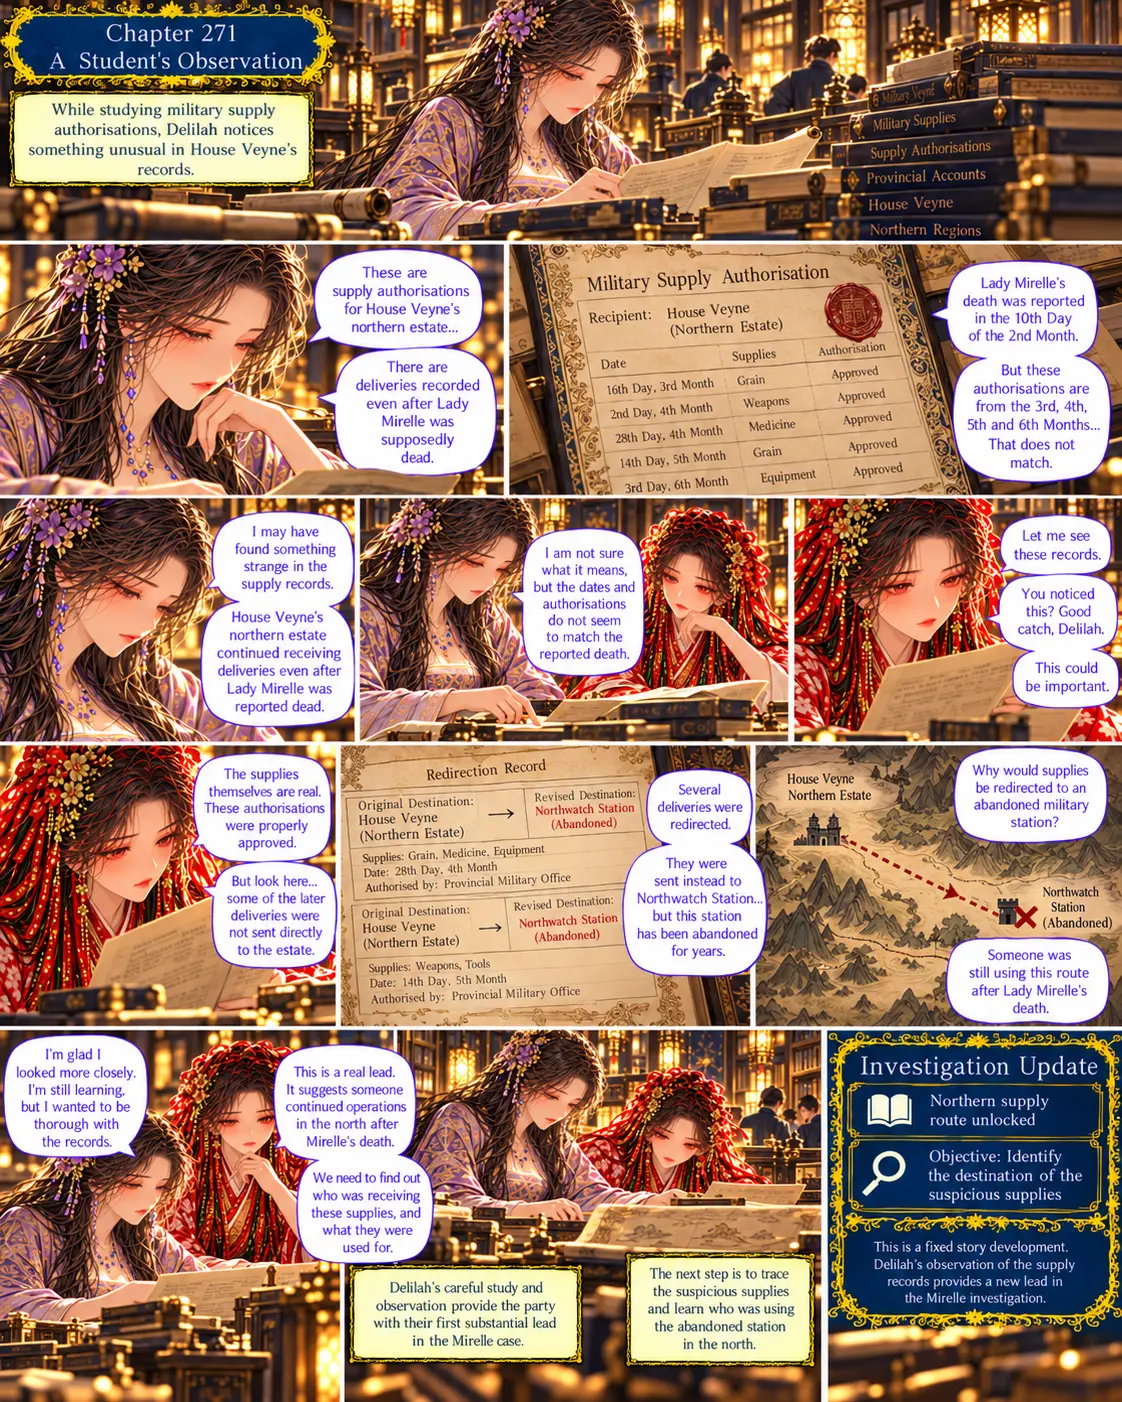
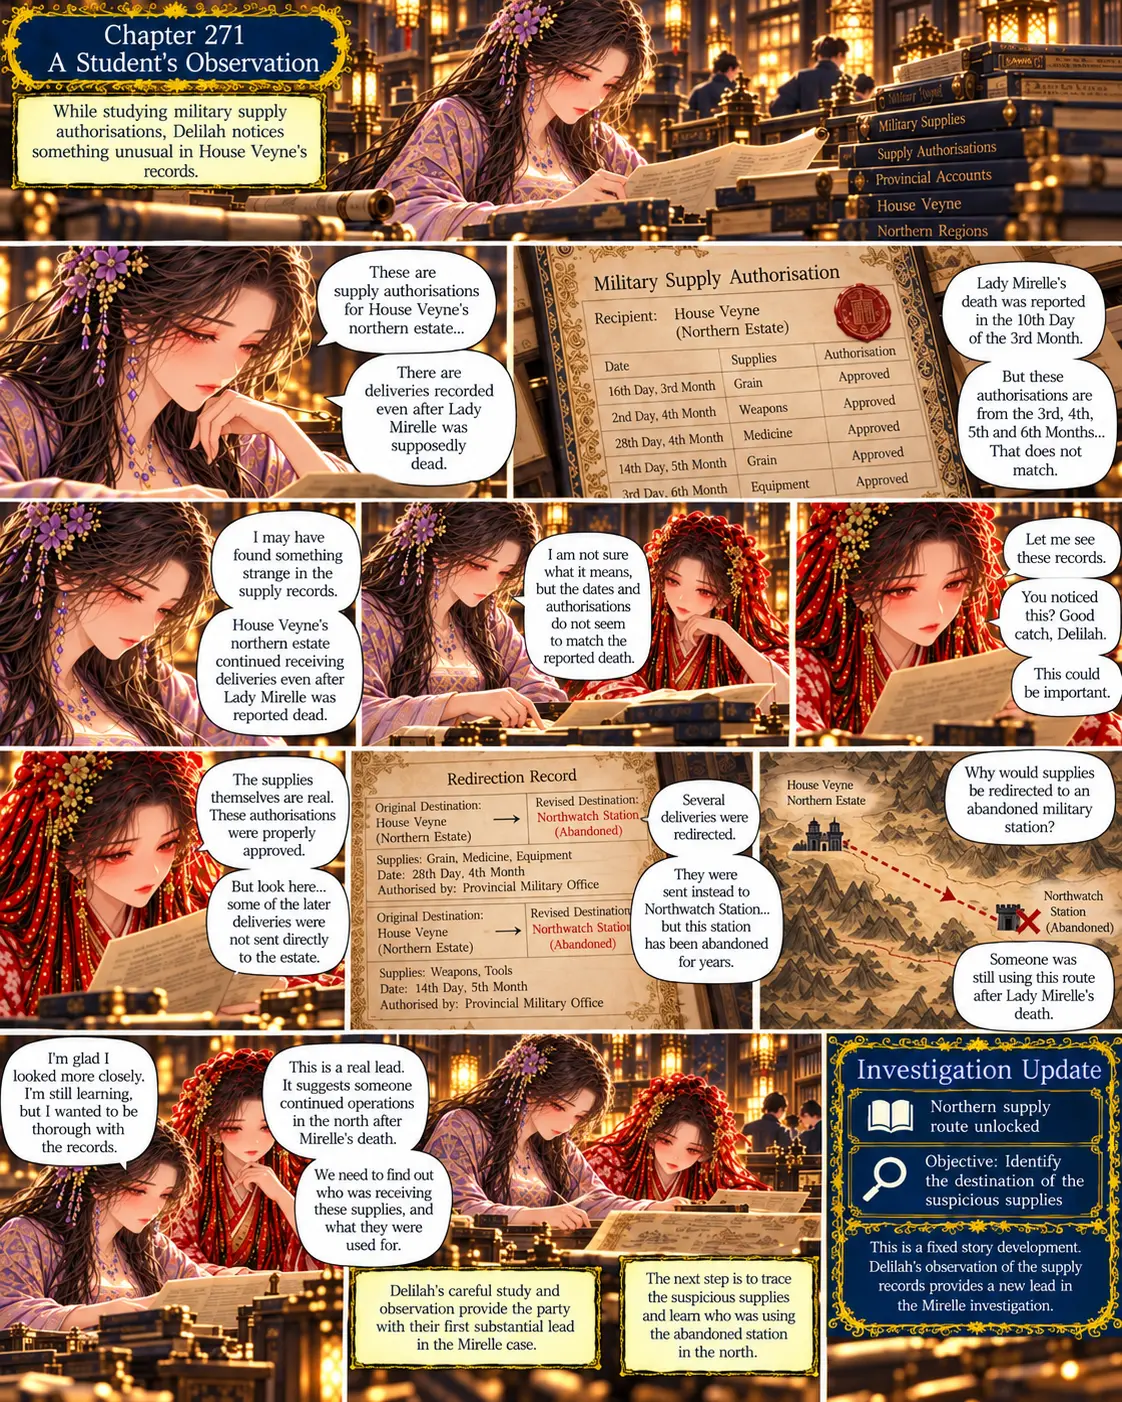
Ch271 regenerated: the death date now matches ch270
Claude-Session: https://claude.ai/code/session_01JgCx3Matg4MVjEr67ncDB4

diff --git a/scripts/chapters.js b/scripts/chapters.js
@@ -2720,10 +2720,10 @@ const CHAPTER_DESIGN = {
  271:{ title:'A Student\'s Observation', type:'Story Chapter — Delilah\'s lead in the supply records', loc:'🐉 Dragonvale: the Academy archives',
   chars:['jade', 'devon', 'sky', 'levi', 'rheon'], charsNote:'Jade, Delilah and the party',
   introduced:[],
-  sum:'While studying military supply authorisations, Delilah notices something unusual in House Veyne\'s records. Delilah: "These are supply authorisations for House Veyne\'s northern estate... There are deliveries recorded even after Lady Mirelle was supposedly dead." The Military Supply Authorisation (Recipient: House Veyne, Northern Estate) lists: 16th Day, 3rd Month: Grain, Approved. 2nd Day, 4th Month: Weapons, Approved. 28th Day, 4th Month: Medicine, Approved. 14th Day, 5th Month: Grain, Approved. 3rd Day, 6th Month: Equipment, Approved. Delilah: "Lady Mirelle\'s death was reported in the 10th Day of the 2nd Month. But these authorisations are from the 3rd, 4th, 5th and 6th Months... That does not match." Delilah to Jade: "I may have found something strange in the supply records. House Veyne\'s northern estate continued receiving deliveries even after Lady Mirelle was reported dead. I am not sure what it means, but the dates and authorisations do not seem to match the reported death." Jade: "Let me see these records. You noticed this? Good catch, Delilah. This could be important. The supplies themselves are real. These authorisations were properly approved. But look here... some of the later deliveries were not sent directly to the estate." The Redirection Record: Original Destination: House Veyne (Northern Estate) to Revised Destination: Northwatch Station (Abandoned). Supplies: Grain, Medicine, Equipment; Date: 28th Day, 4th Month; Authorised by: Provincial Military Office. Original Destination: House Veyne (Northern Estate) to Revised Destination: Northwatch Station (Abandoned). Supplies: Weapons, Tools; Date: 14th Day, 5th Month; Authorised by: Provincial Military Office. Jade: "Several deliveries were redirected. They were sent instead to Northwatch Station... but this station has been abandoned for years. Why would supplies be redirected to an abandoned military station? Someone was still using this route after Lady Mirelle\'s death." Delilah: "I\'m glad I looked more closely. I\'m still learning, but I wanted to be thorough with the records." Jade: "This is a real lead. It suggests someone continued operations in the north after Mirelle\'s death. We need to find out who was receiving these supplies, and what they were used for." Delilah\'s careful study and observation provide the party with their first substantial lead in the Mirelle case. The next step is to trace the suspicious supplies and learn who was using the abandoned station in the north. INVESTIGATION UPDATE: Northern supply route unlocked. Objective: Identify the destination of the suspicious supplies. This is a fixed story development.',
-  art:'Pages show: Delilah (purple robe) at a desk of ledgers in the academy archive (Military Supplies, Supply Authorisations, Provincial Accounts, House Veyne, Northern Regions); the \'Military Supply Authorisation\' table; Jade (red) and Delilah reading; the \'Redirection Record\' (two entries to Northwatch Station (Abandoned), authorised by the Provincial Military Office); a map from the House Veyne Northern Estate to Northwatch Station with a red X; the Investigation Update card. DATE MISMATCH: this page says Mirelle\'s death was reported on the 10th Day of the 2nd Month, while ch270\'s petition lists the incident on the 10th Day of the 3rd Month (filed the 16th Day of the 3rd Month); the first authorisation here is the 16th Day, 3rd Month. The game shows both as the pages do and flags it for the cleaning pass. Delilah is a student (the support bonus is small).',
+  sum:'While studying military supply authorisations, Delilah notices something unusual in House Veyne\'s records. Delilah: "These are supply authorisations for House Veyne\'s northern estate... There are deliveries recorded even after Lady Mirelle was supposedly dead." The Military Supply Authorisation (Recipient: House Veyne, Northern Estate) lists: 16th Day, 3rd Month: Grain, Approved. 2nd Day, 4th Month: Weapons, Approved. 28th Day, 4th Month: Medicine, Approved. 14th Day, 5th Month: Grain, Approved. 3rd Day, 6th Month: Equipment, Approved. Delilah: "Lady Mirelle\'s death was reported in the 10th Day of the 3rd Month. But these authorisations are from the 3rd, 4th, 5th and 6th Months... That does not match." Delilah to Jade: "I may have found something strange in the supply records. House Veyne\'s northern estate continued receiving deliveries even after Lady Mirelle was reported dead. I am not sure what it means, but the dates and authorisations do not seem to match the reported death." Jade: "Let me see these records. You noticed this? Good catch, Delilah. This could be important. The supplies themselves are real. These authorisations were properly approved. But look here... some of the later deliveries were not sent directly to the estate." The Redirection Record: Original Destination: House Veyne (Northern Estate) to Revised Destination: Northwatch Station (Abandoned). Supplies: Grain, Medicine, Equipment; Date: 28th Day, 4th Month; Authorised by: Provincial Military Office. Original Destination: House Veyne (Northern Estate) to Revised Destination: Northwatch Station (Abandoned). Supplies: Weapons, Tools; Date: 14th Day, 5th Month; Authorised by: Provincial Military Office. Jade: "Several deliveries were redirected. They were sent instead to Northwatch Station... but this station has been abandoned for years. Why would supplies be redirected to an abandoned military station? Someone was still using this route after Lady Mirelle\'s death." Delilah: "I\'m glad I looked more closely. I\'m still learning, but I wanted to be thorough with the records." Jade: "This is a real lead. It suggests someone continued operations in the north after Mirelle\'s death. We need to find out who was receiving these supplies, and what they were used for." Delilah\'s careful study and observation provide the party with their first substantial lead in the Mirelle case. The next step is to trace the suspicious supplies and learn who was using the abandoned station in the north. INVESTIGATION UPDATE: Northern supply route unlocked. Objective: Identify the destination of the suspicious supplies. This is a fixed story development.',
+  art:'Pages show: Delilah (purple robe) at a desk of ledgers in the academy archive (Military Supplies, Supply Authorisations, Provincial Accounts, House Veyne, Northern Regions); the \'Military Supply Authorisation\' table; Jade (red) and Delilah reading; the \'Redirection Record\' (two entries to Northwatch Station (Abandoned), authorised by the Provincial Military Office); a map from the House Veyne Northern Estate to Northwatch Station with a red X; the Investigation Update card. The date now matches ch270 (the incident on the 10th Day, 3rd Month); the first authorisation (16th Day, 3rd Month) falls six days after it. Delilah is a student (the support bonus is small).',
   quote:'"Someone was still using this route after Lady Mirelle\'s death." — Jade',
-  events:['Delilah finds House Veyne\'s northern estate kept receiving supplies after Mirelle\'s reported death', 'The authorisations run from the 3rd to the 6th Month; the death was reported in the 2nd Month (per this page)', 'The supplies are real and properly approved, but some were redirected away from the estate', 'Redirection records: grain, medicine, equipment (28th Day, 4th Month) and weapons, tools (14th Day, 5th Month) to Northwatch Station (Abandoned), authorised by the Provincial Military Office', 'Northwatch Station has been abandoned for years: someone is still using the route', 'Delilah\'s careful study gives the party its first substantial lead'],
+  events:['Delilah finds House Veyne\'s northern estate kept receiving supplies after Mirelle\'s reported death', 'The authorisations run from the 3rd to the 6th Month; the death was reported on the 10th Day of the 3rd Month', 'The supplies are real and properly approved, but some were redirected away from the estate', 'Redirection records: grain, medicine, equipment (28th Day, 4th Month) and weapons, tools (14th Day, 5th Month) to Northwatch Station (Abandoned), authorised by the Provincial Military Office', 'Northwatch Station has been abandoned for years: someone is still using the route', 'Delilah\'s careful study gives the party its first substantial lead'],
   purpose:['Give the party its first substantial lead', 'Show Delilah contributing through careful study'],
   unlocks:['Northern supply route', 'Delilah: support investigation bonus', 'Objective: identify the destination of the suspicious supplies'],
   reward:'The first substantial lead'},

diff --git a/scripts/veyne.js b/scripts/veyne.js
@@ -202,7 +202,7 @@ const CASE_ITEMS = [
   {cat:'Witnesses', n:'The frightened servants', t:'Some insist she died; others refuse to speak.', spot:'frightened_servants'},
   {cat:'Locations', n:'Northwatch Station (abandoned)', t:'Supplies were redirected here; abandoned for years.', spot:'northwatch_station'},
   {cat:'Locations', n:'The Veyne Estate', t:'Orderly outside, hollow within. Mirelle\'s private study.', spot:'private_study'},
-  {cat:'Contradictions', n:'Deliveries after the reported death', t:'Authorisations run from the 3rd to the 6th Month; the death was reported earlier (the dates on the pages differ: see notes).', spot:'supply_authorisations'},
+  {cat:'Contradictions', n:'Deliveries after the reported death', t:'Authorisations run from the 3rd to the 6th Month; the death was reported on the 10th Day of the 3rd Month, before the first delivery.', spot:'supply_authorisations'},
   {cat:'Contradictions', n:'Loyal staff dismissed within a month', t:'Steward, head of security, accountant and two senior servants, by order of the current household authority.', spot:'dismissed_officials'},
   {cat:'Documents', n:'Land grant letters', t:'Incomplete correspondence about northern military land grants; the final letter is missing.', spot:'land_grant_letters'},
   {cat:'Documents', n:'The torn ledger page', t:'A page removed from Mirelle\'s personal ledger, recently.', spot:'torn_ledger_page'},
@@ -268,7 +268,7 @@ ROUTES.push(
 LOCATIONS.dragon_academy.spots.push(
   {id:'supply_authorisations', kind:'investigate', n:'The Supply Authorisations', icon:'📑', ch:271, need:2, ambush:[], lo:82,
    desc:'Deliveries after her death.',
-   clues:['Delilah: "These are supply authorisations for House Veyne\'s northern estate... There are deliveries recorded even after Lady Mirelle was supposedly dead."', 'Delilah: "Lady Mirelle\'s death was reported in the 10th Day of the 2nd Month. But these authorisations are from the 3rd, 4th, 5th and 6th Months... That does not match."'], rw:{xp:173000, gold:36700}},
+   clues:['Delilah: "These are supply authorisations for House Veyne\'s northern estate... There are deliveries recorded even after Lady Mirelle was supposedly dead."', 'Delilah: "Lady Mirelle\'s death was reported in the 10th Day of the 3rd Month. But these authorisations are from the 3rd, 4th, 5th and 6th Months... That does not match."'], rw:{xp:173000, gold:36700}},
   {id:'delilahs_find', kind:'investigate', n:'Delilah\'s Find', icon:'🎓', ch:271, need:2, ambush:[], lo:82, needFlag:'inv_supply_authorisations', lockMsg:'🔒 Finish the previous clue first',
    desc:'Good catch.',
    clues:['Delilah: "I may have found something strange in the supply records. House Veyne\'s northern estate continued receiving deliveries even after Lady Mirelle was reported dead."', 'Jade: "You noticed this? Good catch, Delilah. This could be important."'], rw:{xp:173300, gold:36760}},

diff --git a/sw.js b/sw.js
@@ -1,5 +1,5 @@
 /* Tribute service worker: app shell is cached for offline play; images and other assets are cached as you play. */
-const VERSION = 'tribute-v116';
+const VERSION = 'tribute-v117';
 const SHELL = ['./', './index.html', './styles.css', './manifest.webmanifest',
   './scripts/chapters.js','./scripts/characters.js','./scripts/skilltree.js','./scripts/core.js','./scripts/enemies.js','./scripts/battle.js','./scripts/autobattle.js',
   './scripts/journal.js','./scripts/world.js','./scripts/world-ui.js','./scripts/maps.js','./scripts/voyage.js','./scripts/family.js','./scripts/raid.js','./scripts/network.js','./scripts/evils.js','./scripts/relations.js','./scripts/regard.js','./scripts/whispers.js','./scripts/chronicle.js','./scripts/salary.js','./scripts/apprentice.js','./scripts/banter.js','./scripts/corruption.js','./scripts/explore.js','./scripts/arcs.js','./scripts/base.js','./scripts/skirmish.js','./scripts/items.js','./scripts/gear.js','./scripts/loot.js','./scripts/gates.js','./scripts/standing.js','./scripts/overheard.js','./scripts/deeds.js','./scripts/estates.js','./scripts/archive.js','./scripts/sunken.js','./scripts/passages.js','./scripts/codex.js','./scripts/growth.js','./scripts/echoes.js','./scripts/vows.js','./scripts/outfits.js','./scripts/royals.js','./scripts/arc9.js','./scripts/residents.js','./scripts/routes.js','./scripts/timed.js','./scripts/ways.js','./scripts/repute.js','./scripts/regmarks.js','./scripts/altan.js','./scripts/veyne.js','./scripts/roc.js','./scripts/rewards.js','./scripts/tracker.js',

diff --git a/docs/DRAGONVALE_YEAR_PLAN.md b/docs/DRAGONVALE_YEAR_PLAN.md
@@ -746,3 +746,5 @@ Built (scripts/veyne.js, plus chapters/world/core): 263 The Prince Who Wouldn't 
 - Author confirmations (Arc XI): Delilah is Roc's consort and has now taken up studying (the game already calls her "Roc's consort"; the 284 page not showing her pregnant is not a mismatch to chase). The green-haired portrait is Mirelle (confirmed).
 
 - Revised Arc XI briefs 281-286 saved in docs/ARC_XI_PLAN.md. Built (v116): Ancient Relics records 'The Mirror of Returning Years' and 'Mirelle's Transformation' in the Archive, an 'Unresolved Phenomenon' lore entry (286). The generated pages already match the revised briefs, so the chapter texts are unchanged. The Mirror does not touch the Register.
+
+- Ch271 regenerated (v117): Delilah now says the death was reported on the 10th Day of the 3rd Month, matching ch270. Date mismatch closed. Still waiting on regenerated 277 (Rheon's report should go to Dragonvale's authorities, not Greyson), 278 (replace "4th Breavane", suggested "19th Day, 3rd Month") and 266 (griffin crest vs the blue-and-gold fleur-de-lis banner).
